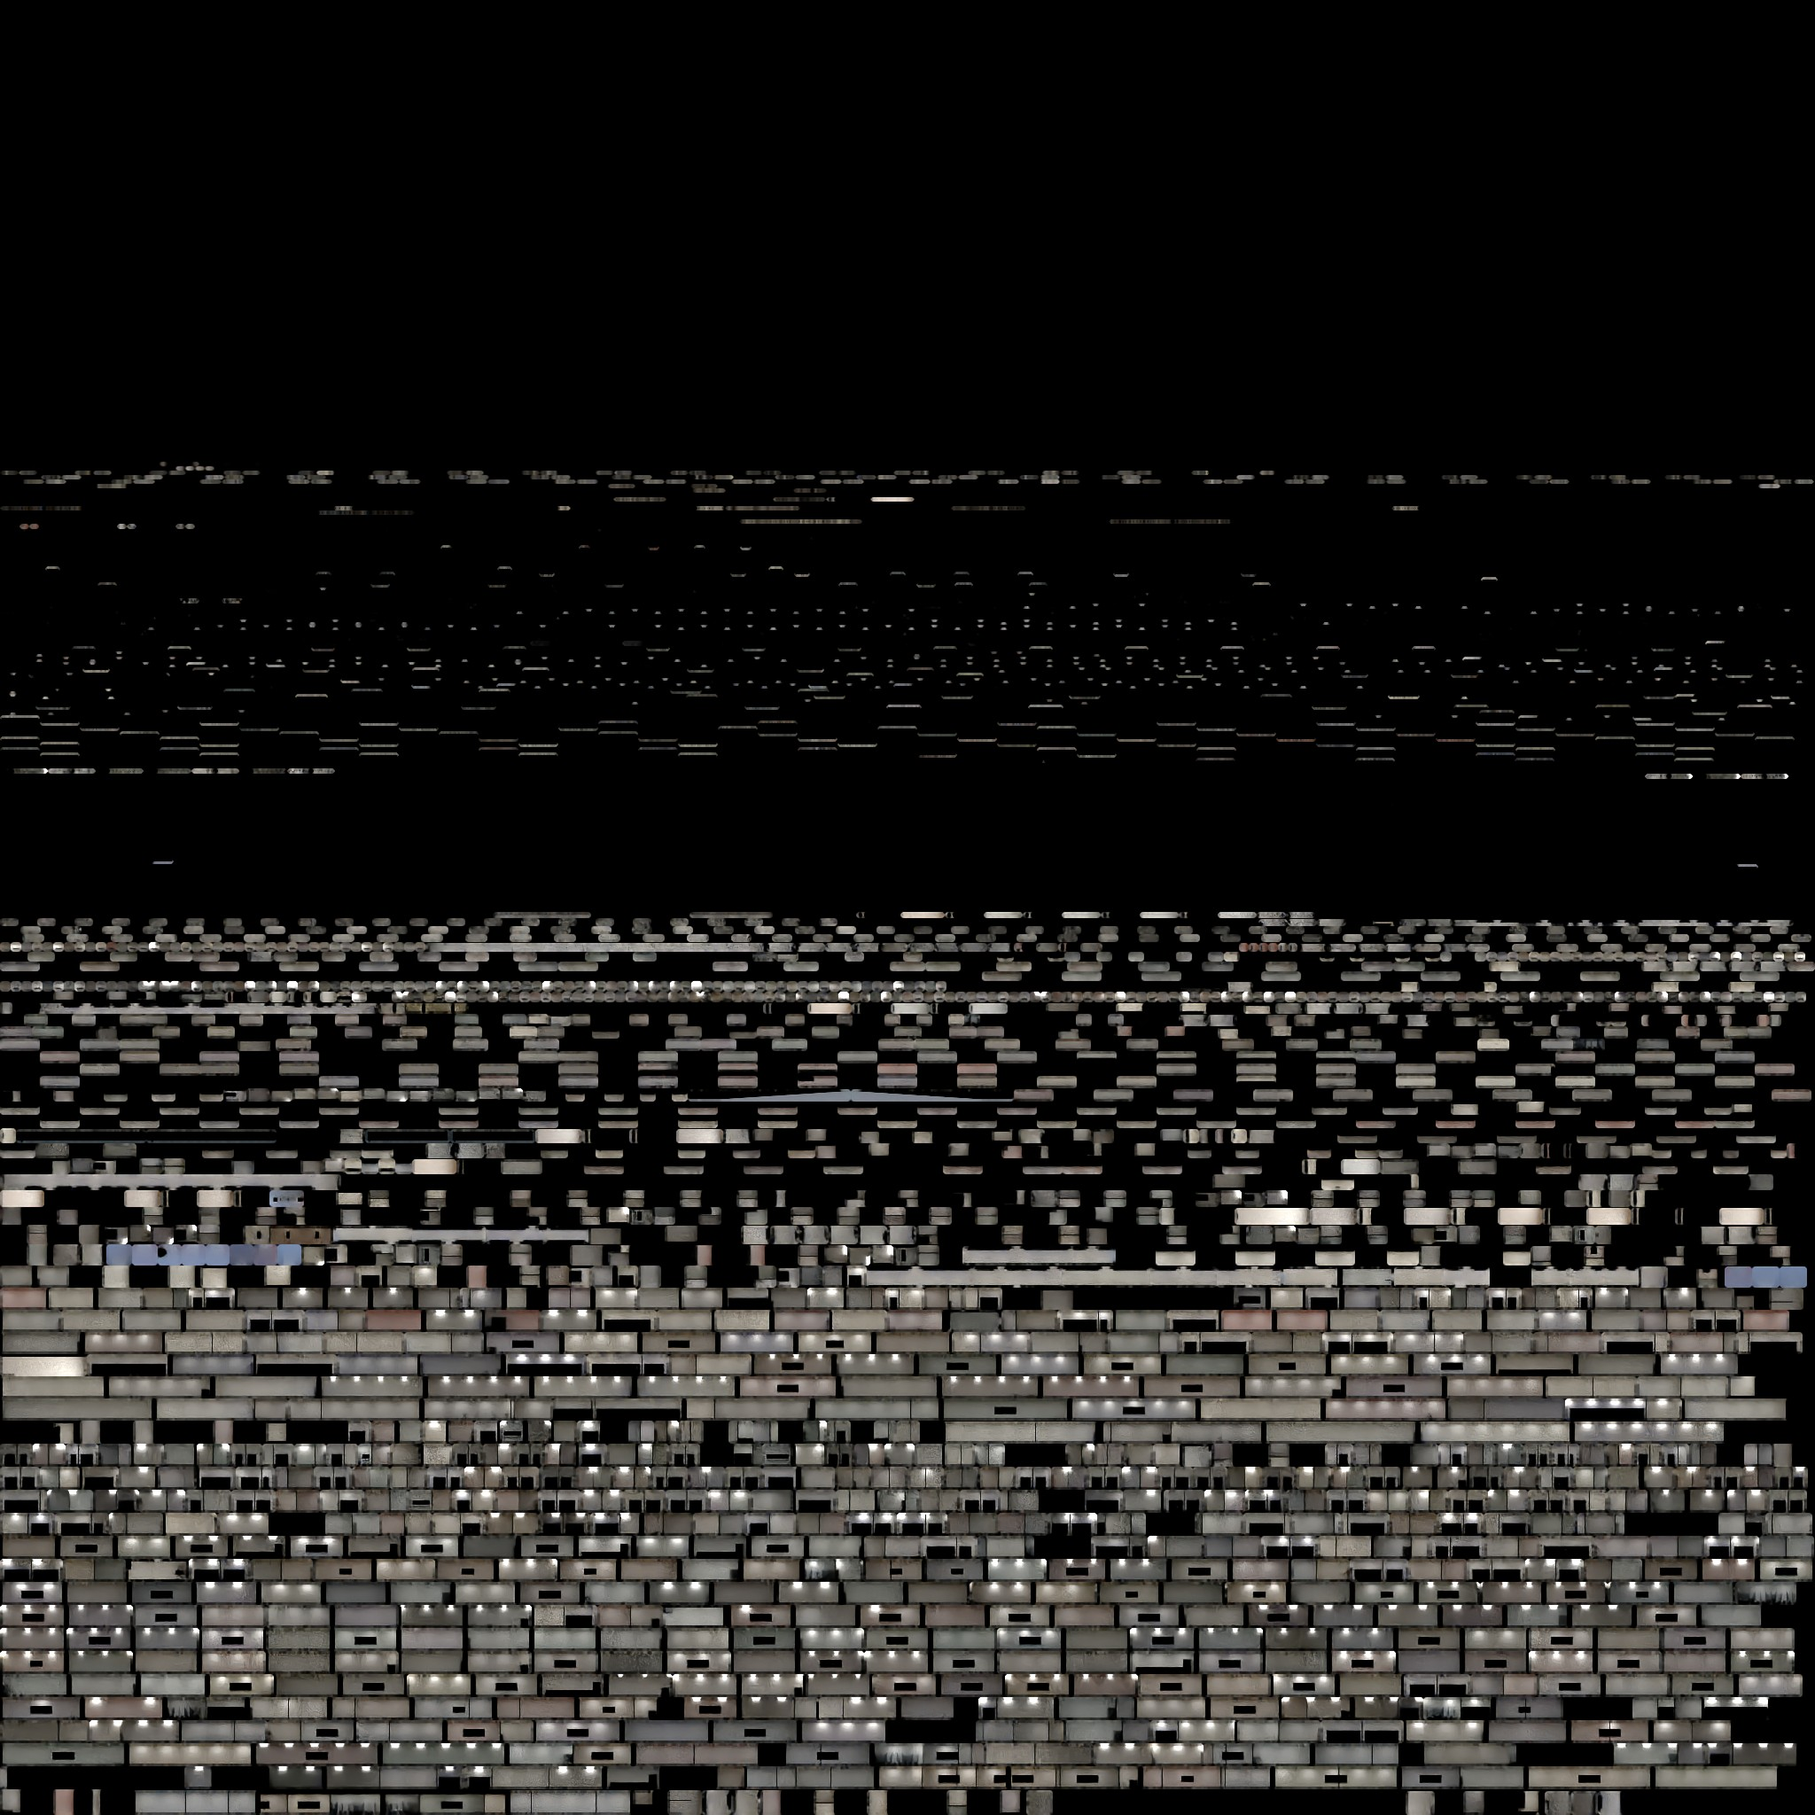
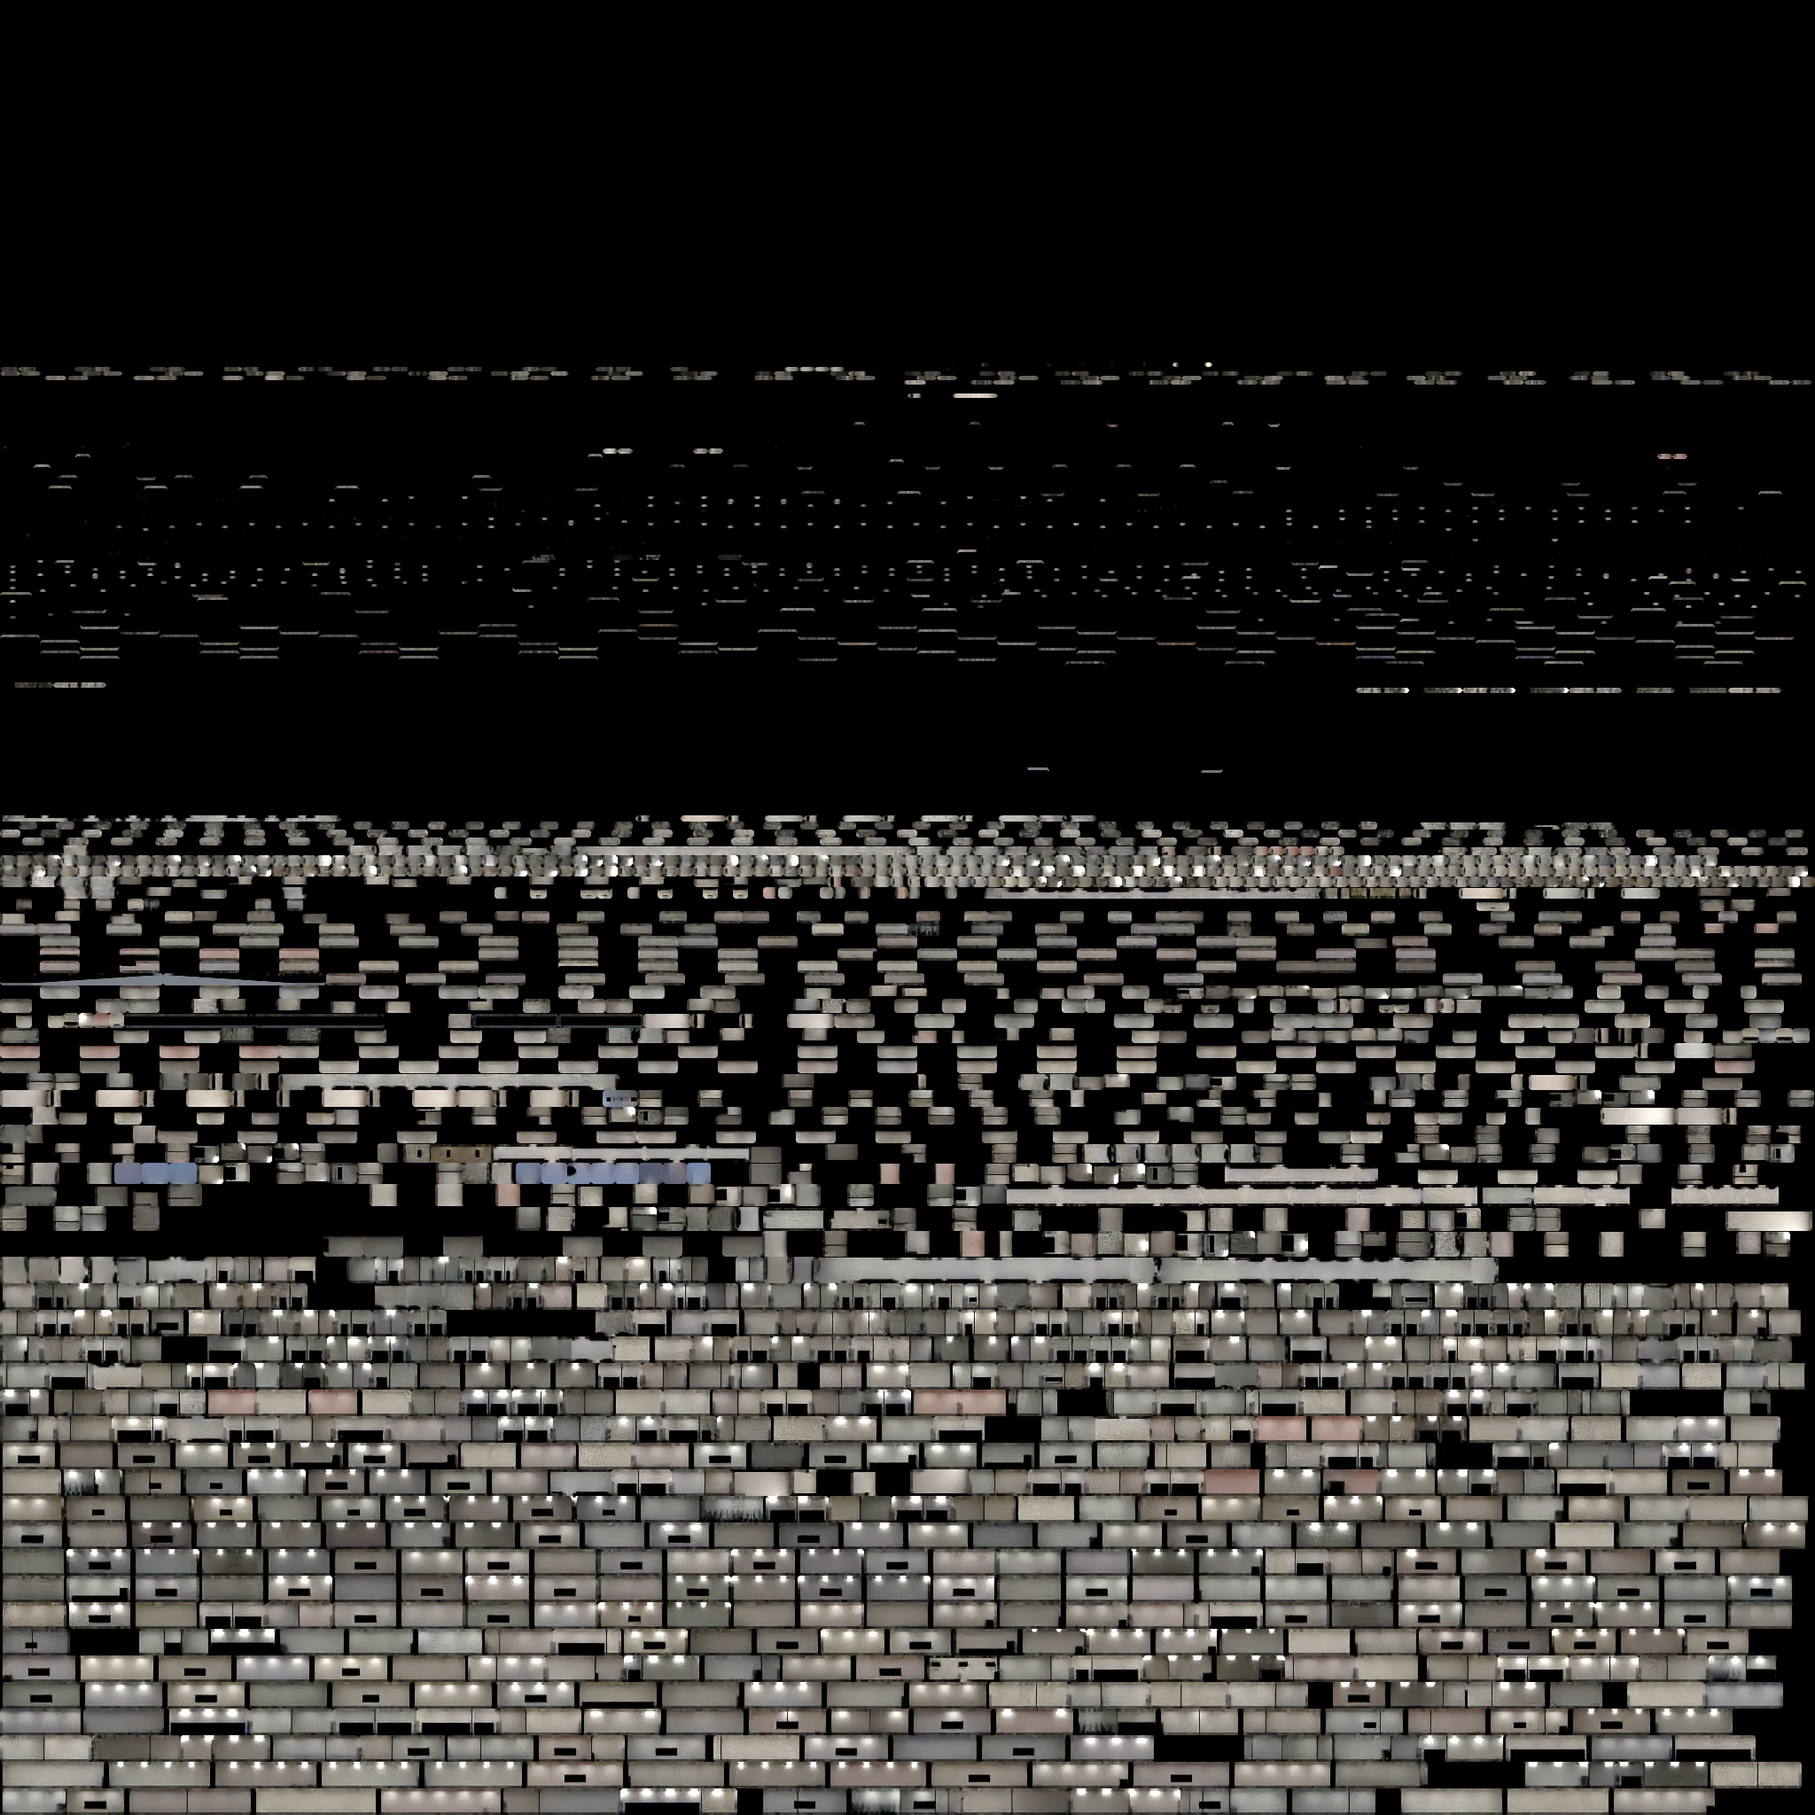
Scale to the block count: 23-course ceilings, 5'7" player
Inside walls are 23 courses of 7 in block floor to ceiling, as counted
at the school, and the average student is about 5'7":
- the player model was 1.95 m to the top of the hair (collision 1.75 m);
  it is now scaled to 1.70 m, with collision and eye heights to match
- interior block texture uses 7 x 14 in units; classrooms, offices,
  hallways and the Main Hall have 4.09 m (23-course) ceilings, doors
  are 7 ft (12 courses) and the two-story wing is 27 courses (4.80 m)
  floor to floor
- one-story roof decks at 4.6 m with a 0.4 m parapet, so the outside
  walls stay at the measured 5.0 m; the two-story wing's parapet is
  now at 9.8 m

Lightmaps rebaked.

Claude-Session: https://claude.ai/code/session_01YcJdNuKwim7Rrh4UWwXGwT

diff --git a/src/layout.js b/src/layout.js
@@ -13,10 +13,15 @@ export const S = 0.18; // meters per plan unit
 const OX = 180;
 const OY = 200;
 
-export const LEVEL_H = 4.4; // floor-to-floor height: the second floor lines up with the one-story roofs
+// Inside walls are concrete block laid in 7 in (17.78 cm) courses. Classrooms and hallways are
+// 23 courses floor to ceiling (4.09 m), as counted at the school; heights below are whole courses
+// so the block lines up with floors, ceilings and door heads.
+export const CMU = 0.1778;
+const CEIL = 23 * CMU;
+export const LEVEL_H = 27 * CMU; // 4.80 m floor to floor in the two-story wing
 export const SLAB = 0.3;
-export const CEIL2 = [3.4, 7.8]; // ceilings on level 0 and level 1 in the two-story wing
-export const DOOR_H = 2.2;
+export const CEIL2 = [CEIL, LEVEL_H + CEIL]; // ceilings on level 0 and level 1 in the two-story wing
+export const DOOR_H = 12 * CMU; // 7 ft doors
 
 export const wx = (px) => (px - OX) * S;
 export const wz = (py) => (py - OY) * S;
@@ -28,29 +33,29 @@ export const rectW = (r) => [wx(r[0]), wz(r[1]), wx(r[2]), wz(r[3])];
 // ---------------------------------------------------------------------------------------
 export const BLOCKS = [
   {
-    id: 'acad', name: 'Academic Wing', levels: 2, roof: 8.8,
+    id: 'acad', name: 'Academic Wing', levels: 2, roof: 9.4,
     rects: [
       [290, 208, 752, 345], [290, 345, 375, 402], [665, 345, 752, 402],
       [290, 402, 752, 630], [290, 630, 431, 750], [606, 630, 752, 750],
     ],
   },
-  { id: 'mc', name: 'Media Center', levels: 1, ceil: 3.8, roof: 4.8, rects: [[431, 630, 606, 750]] },
-  { id: 'office', name: 'Main Office', levels: 1, ceil: 3.3, roof: 4.4, rects: [[250, 455, 290, 750]] },
-  { id: 'mainhall', name: 'Main Hall', levels: 1, ceil: 4.4, roof: 5.4, rects: [[238, 750, 1000, 798]] },
-  { id: 'w300', name: '300s', levels: 1, ceil: 3.3, roof: 4.4, rects: [[217, 798, 363, 1175]] },
+  { id: 'mc', name: 'Media Center', levels: 1, ceil: CEIL, roof: 4.6, rects: [[431, 630, 606, 750]] },
+  { id: 'office', name: 'Main Office', levels: 1, ceil: CEIL, roof: 4.6, rects: [[250, 455, 290, 750]] },
+  { id: 'mainhall', name: 'Main Hall', levels: 1, ceil: CEIL, roof: 4.6, rects: [[238, 750, 1000, 798]] },
+  { id: 'w300', name: '300s', levels: 1, ceil: CEIL, roof: 4.6, rects: [[217, 798, 363, 1175]] },
   { id: 'theatre', name: 'Theatre', levels: 1, ceil: 10, roof: 11, windows: false, rects: [[363, 798, 526, 990]] },
   { id: 'stage', name: 'Stage', levels: 1, ceil: 15, roof: 16, windows: false, rects: [[363, 990, 526, 1100]] },
   { id: 'backstage', name: 'Backstage', levels: 1, ceil: 4.5, roof: 5.5, rects: [[363, 1100, 526, 1175]] },
-  { id: 'e300', name: '300s', levels: 1, ceil: 3.3, roof: 4.4, rects: [[526, 798, 621, 1183]] },
+  { id: 'e300', name: '300s', levels: 1, ceil: CEIL, roof: 4.6, rects: [[526, 798, 621, 1183]] },
   { id: 'dining', name: 'Dining Halls', levels: 1, ceil: 5.5, roof: 6.5, rects: [[661, 798, 771, 990], [876, 798, 988, 967]] },
-  { id: 'kitchen', name: 'Kitchen', levels: 1, ceil: 3.3, roof: 4.4, rects: [[771, 798, 876, 967], [771, 967, 929, 990], [732, 990, 929, 1105]] },
-  { id: 'connector', name: 'Gym Connector', levels: 1, ceil: 3.2, roof: 4.2, rects: [[988, 826, 1027, 862]] },
+  { id: 'kitchen', name: 'Kitchen', levels: 1, ceil: CEIL, roof: 4.6, rects: [[771, 798, 876, 967], [771, 967, 929, 990], [732, 990, 929, 1105]] },
+  { id: 'connector', name: 'Gym Connector', levels: 1, ceil: CEIL, roof: 4.6, rects: [[988, 826, 1027, 862]] },
   { id: 'pool', name: 'Natatorium', levels: 1, ceil: 8.5, roof: 9.5, windows: false, rects: [[752, 576, 962, 750]] },
-  { id: 'lockers', name: 'Locker Rooms', levels: 1, ceil: 3.3, roof: 4.4, rects: [[962, 527, 1128, 750], [1128, 600, 1332, 750]] },
-  { id: 'eastcorr', name: 'Gym Hallway', levels: 1, ceil: 3.3, roof: 4.4, rects: [[1000, 750, 1360, 778]] },
-  { id: 'r400', name: '400s', levels: 1, ceil: 3.3, roof: 4.4, rects: [[1332, 600, 1456, 750], [1360, 750, 1456, 1026]] },
+  { id: 'lockers', name: 'Locker Rooms', levels: 1, ceil: CEIL, roof: 4.6, rects: [[962, 527, 1128, 750], [1128, 600, 1332, 750]] },
+  { id: 'eastcorr', name: 'Gym Hallway', levels: 1, ceil: CEIL, roof: 4.6, rects: [[1000, 750, 1360, 778]] },
+  { id: 'r400', name: '400s', levels: 1, ceil: CEIL, roof: 4.6, rects: [[1332, 600, 1456, 750], [1360, 750, 1456, 1026]] },
   { id: 'mgym', name: 'Main Gym', levels: 1, ceil: 9.5, roof: 10.5, windows: false, rects: [[1027, 778, 1241, 1026]] },
-  { id: 'gymside', name: 'Gym Hallway', levels: 1, ceil: 3.3, roof: 4.4, rects: [[1241, 778, 1360, 1026], [1027, 1026, 1380, 1059], [1260, 1059, 1380, 1110]] },
+  { id: 'gymside', name: 'Gym Hallway', levels: 1, ceil: CEIL, roof: 4.6, rects: [[1241, 778, 1360, 1026], [1027, 1026, 1380, 1059], [1260, 1059, 1380, 1110]] },
   { id: 'sgym', name: 'Auxiliary Gym', levels: 1, ceil: 8.0, roof: 9.0, windows: false, rects: [[1045, 1059, 1260, 1220]] },
 ];
 

diff --git a/src/player.js b/src/player.js
@@ -100,6 +100,9 @@ export class Character {
     pack.castShadow = true;
     this.hips.add(pack);
     this.phase = 0;
+    // the parts are modeled 1.95 m to the top of the hair; scale to 5'7" (1.70 m), the
+    // average height at the school
+    this.group.scale.setScalar(1.7 / 1.954);
   }
 
   setLook(look) {
@@ -162,7 +165,7 @@ export class Player {
     this.vel = new THREE.Vector3();
     this.yaw = 0; // character facing
     this.radius = 0.3;
-    this.height = 1.75;
+    this.height = 1.7;
     this.step = 0.5;
     this.grounded = true;
     this.swimming = false;
@@ -339,9 +342,9 @@ export class FollowCamera {
       this.cam.fov += (fovT - this.cam.fov) * Math.min(1, dt * 5);
       this.cam.updateProjectionMatrix();
     }
-    let eyeH = this.firstPerson ? 1.62 : 1.5;
+    let eyeH = this.firstPerson ? 1.56 : 1.46; // a 1.70 m person's eyes are at about 1.58 m
     if (this.firstPerson && player.grounded && player.speed > 0.3) eyeH += Math.abs(Math.sin(player.char.phase)) * 0.035 * Math.min(1, player.speed / 4) - 0.017;
-    if (player.swimming) eyeH = 1.45;
+    if (player.swimming) eyeH = 1.41;
     eyeH -= player.landing;
     this.target.set(player.pos.x, player.visualY + eyeH, player.pos.z);
     const cp = Math.cos(this.pitch), sp = Math.sin(this.pitch);

diff --git a/src/textures.js b/src/textures.js
@@ -209,9 +209,9 @@ export function makeTextures() {
     }, 3));
   }
 
-  // --- Painted cinder block (interior walls), 2.4 m tile: 40 x 20 cm units, white so
-  // vertex colors tint the paint. Paint fills but doesn't hide the porous face, and the
-  // joints are concave.
+  // --- Painted cinder block (interior walls), 12-course tile: 7 in courses (17.78 cm, as at the
+  // school) and 14 in units, white so vertex colors tint the paint. Paint fills but doesn't hide
+  // the porous face, and the joints are concave.
   {
     const S = 1024, rows = 12, cols = 6, bh = S / rows, bw = S / cols;
     const joints = (g, col, lw) => {
@@ -235,7 +235,7 @@ export function makeTextures() {
         g.fill();
       }
     };
-    put('block', surface(S, 2.4, (g) => {
+    put('block', surface(S, 12 * 0.1778, (g) => {
       g.fillStyle = '#f3f0e8';
       g.fillRect(0, 0, S, S);
       // slight unit-to-unit variation under the paint

diff --git a/src/building.js b/src/building.js
@@ -12,7 +12,7 @@ import { packLightmaps } from './lightmap.js';
 
 const WT = 0.2; // interior wall thickness
 const SK = 0.32; // exterior brick skin thickness
-const PARAPET = 0.6; // one-story walls come out 5.0 m to the top of the coping, as measured
+const PARAPET = 0.4; // with 4.6 m roof decks, one-story walls come out 5.0 m to the top of the coping, as measured
 const L1_TOP = CEIL2[1] + 0.05;
 const EPS = 0.06;
 // Window sill/head per level. Photos of the 300s wing show high ribbon windows: white

diff --git a/README.md b/README.md
@@ -71,7 +71,7 @@ Every room is transcribed in [`src/layout.js`](src/layout.js) as rectangles in "
 
 **Graphics.** Materials are physically based (`src/materials.js`) with procedural color and normal maps (`src/textures.js`). The sky is a physical sky model that also lights the scene through image-based lighting outdoors; indoors a neutral room environment takes over. The sun casts soft shadows; indoors the shadow map covers the whole building so rooms far down a hallway are still shaded by the roof. The post-processing chain is ambient occlusion (GTAO), bloom, a light vignette and ACES tone mapping.
 
-**Materials.** Inside, the walls are painted cinder block (40 × 20 cm units with a pitted face and concave joints). Outside is king-size brick in running bond; the mortar is close to the brick color, so a joint reads as a shallow groove with a thin light edge, as in the photos, and a soldier course runs just below the coping. Ceiling tile, carpet, the gym's maple floor, concrete, asphalt and grass are photo-scanned CC0 textures from [ambientCG](https://ambientcg.com) (see [`assets/textures/CREDITS.md`](assets/textures/CREDITS.md)); they stream in over procedural stand-ins.
+**Materials.** Inside, the walls are painted cinder block (7 × 14 in units with a pitted face and concave joints). Outside is king-size brick in running bond; the mortar is close to the brick color, so a joint reads as a shallow groove with a thin light edge, as in the photos, and a soldier course runs just below the coping. Ceiling tile, carpet, the gym's maple floor, concrete, asphalt and grass are photo-scanned CC0 textures from [ambientCG](https://ambientcg.com) (see [`assets/textures/CREDITS.md`](assets/textures/CREDITS.md)); they stream in over procedural stand-ins.
 
 **Sky.** A photographed partly cloudy sky ([Poly Haven](https://polyhaven.com/a/kloofendal_48d_partly_cloudy_puresky), CC0) is the backdrop and lights the outdoors; the sun direction comes from the photo. Parked cars and trucks are from Kenney's [Car Kit](https://kenney.nl/assets/car-kit) (CC0). Trees are Poly Haven tree models (CC0) rendered into sprites in Blender ([`tools/bake/tree_sprites.py`](tools/bake/tree_sprites.py)) and drawn as crossed billboards, so the woods can hold thousands of them.
 
@@ -80,7 +80,7 @@ Every room is transcribed in [`src/layout.js`](src/layout.js) as rectangles in "
 ### What's approximate
 
 - The plans are photocopies with no scale bar, so dimensions are fitted, not surveyed.
-- Heights aren't on the plans, so they are measured from 2026 photos using the brick as a ruler: the bricks are king-size (a joint-to-joint length 3.36 times the course height), so one course is 7.62 cm. The one-story wings come out 5.0 m to the top of the coping (65 to 67 courses, on two photos), the entrance canopy's soffit 3.8 m (50 courses) and its top about 5.4 m, the canopy columns about 0.72 m across, and the ribbon windows run from 1.6 m to 2.35 m above the ground. The canopy's layout comes from fitting a camera to the photo's seven visible columns: two rows of four, 3.75 m apart, the back row against the 300s wing's wall and the front row 4.4 m further out. The same fit puts the ground edges in front of the 300s wing: a 2.3 m mulch bed, about 4 m of lawn, a 1.8 m sidewalk, then the bus lane (the satellite view agrees within a meter). Nothing photographed shows the two-story wing, so its floors are 4.4 m apart (the second floor lines up with the one-story roofs) and its parapet is 9.4 m. The gyms, natatorium, theatre and stage house are typical heights for a high school, not measured.
+- Heights aren't on the plans, so they are measured from 2026 photos using the brick as a ruler: the bricks are king-size (a joint-to-joint length 3.36 times the course height), so one course is 7.62 cm. The one-story wings come out 5.0 m to the top of the coping (65 to 67 courses, on two photos), the entrance canopy's soffit 3.8 m (50 courses) and its top about 5.4 m, the canopy columns about 0.72 m across, and the ribbon windows run from 1.6 m to 2.35 m above the ground. The canopy's layout comes from fitting a camera to the photo's seven visible columns: two rows of four, 3.75 m apart, the back row against the 300s wing's wall and the front row 4.4 m further out. The same fit puts the ground edges in front of the 300s wing: a 2.3 m mulch bed, about 4 m of lawn, a 1.8 m sidewalk, then the bus lane (the satellite view agrees within a meter). Inside, the walls are 23 courses of 7 in block from floor to ceiling, as counted at the school, so classrooms, offices and hallways have 4.09 m ceilings under a 4.6 m roof deck, doors are 7 ft (12 courses), and the two-story wing is 27 courses (4.80 m) floor to floor with its parapet at 9.8 m. The player is 5 ft 7 in (1.70 m), the average height at the school. The gyms, natatorium, theatre and stage house are typical heights for a high school, not measured.
 - Rooms the plans leave unlabeled are named generically (Office, Storage, Restroom), and furniture is mostly a best guess (classroom desks, lab benches, lockers along the hallways). The dining halls have round tables with curved benches, as they did in real life.
 - The facade follows 2026 photos of the entrance and the 300s wing, plus a [2015 photo of the front](https://commons.wikimedia.org/wiki/File:WWPHS_North_front.jpg) (by Mr. Matté, CC BY 3.0): muted red-brown running-bond brick with thin light joints, a soldier course just below a light metal coping, vertical control joints, high ribbon windows with white aluminum frames, and the canopy with its white trim, brick fascia, white metal letters and round white columns. Sides nobody has photographed are assumed to match. The flat roofs, one- and two-story massing and tall gym, theatre and natatorium volumes come from the plans.
 - The site is traced by eye from one satellite image, so positions are good to a few meters. Community Middle School is a simple stand-in block, and cars, buses and trees are placed to look like the photo rather than copied one by one.
